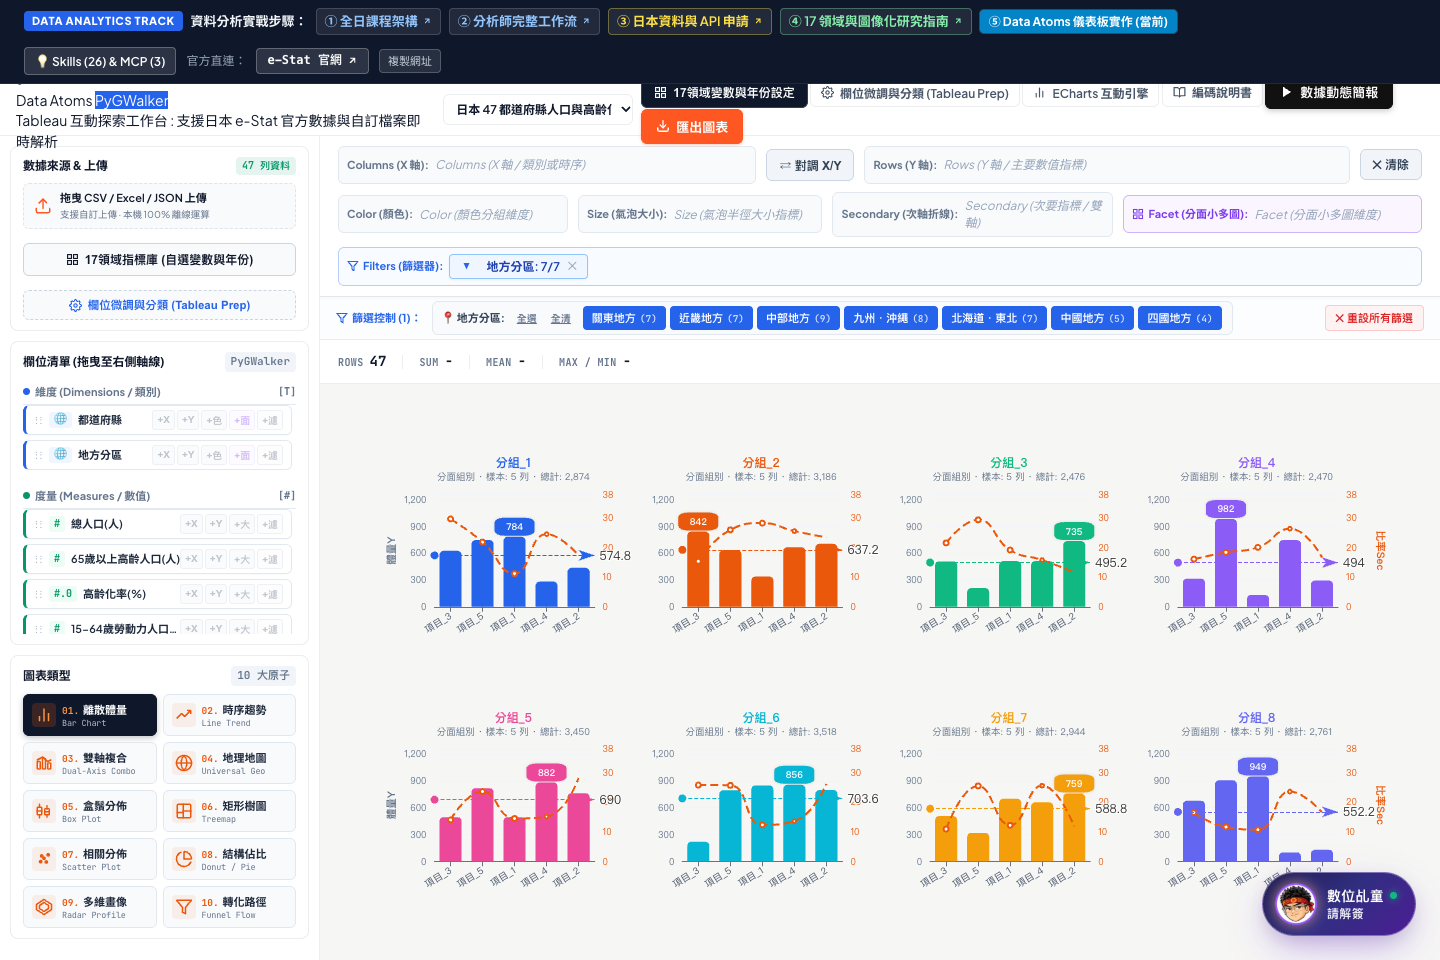
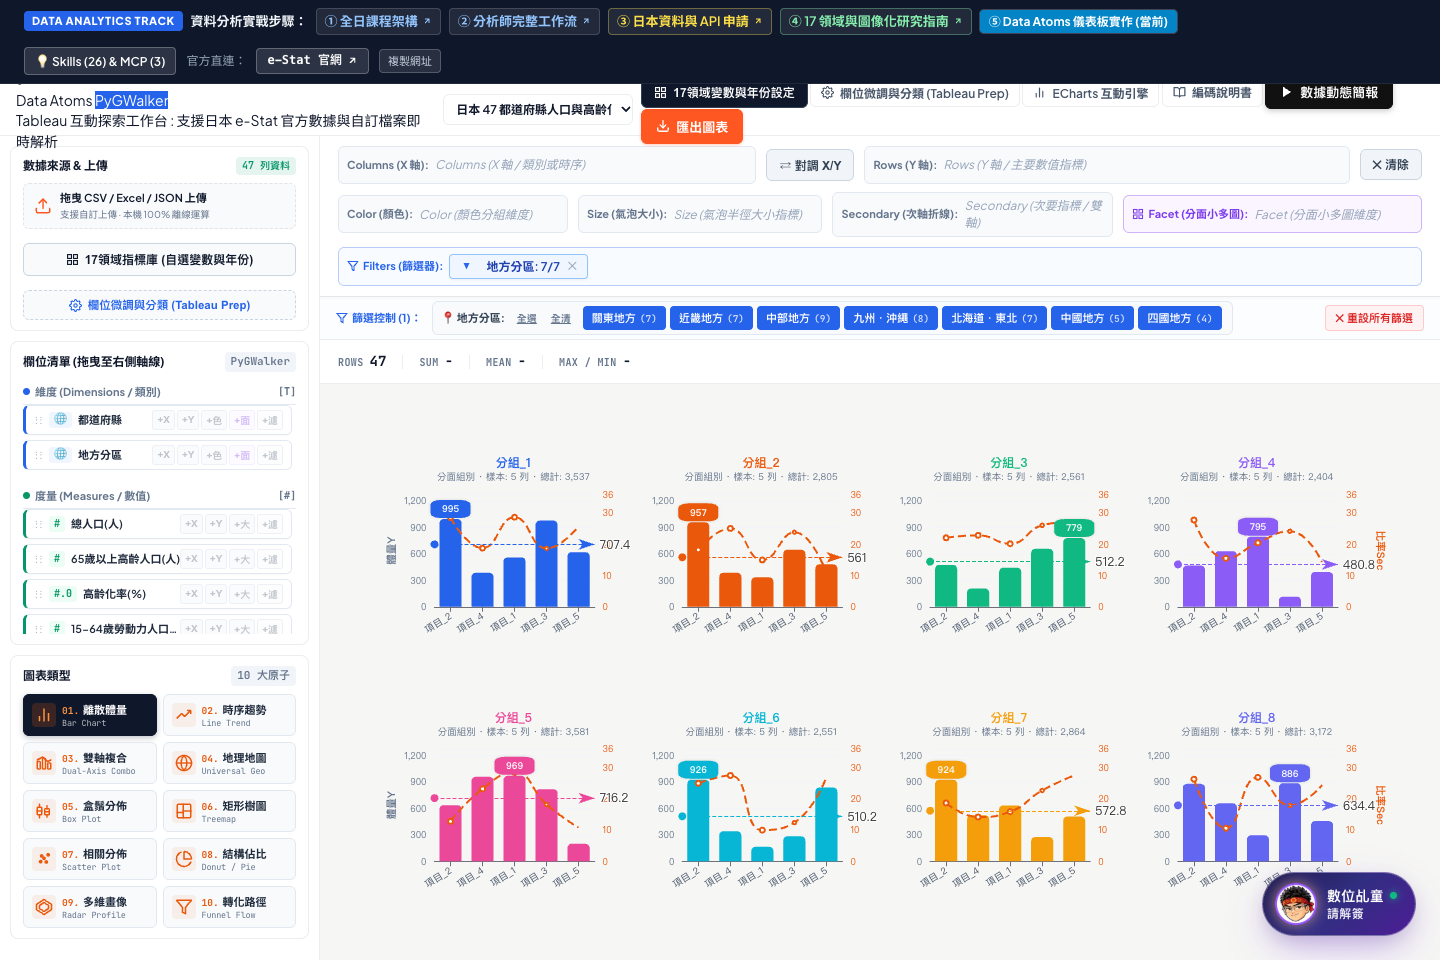
fix(treemap): eliminate legend overlap with breadcrumb navigation

diff --git a/.agents/skills/data-atoms-dashboard/templates/js/pygwalker_data_atoms.js b/.agents/skills/data-atoms-dashboard/templates/js/pygwalker_data_atoms.js
@@ -2711,6 +2711,7 @@
 
       delete option.xAxis;
       delete option.yAxis;
+      option.legend = { show: false };
 
       option.tooltip = {
         trigger: 'item',
@@ -2735,9 +2736,18 @@
           roam: false,
           left: '4%',
           right: '4%',
-          top: 30,
-          bottom: 30,
-          breadcrumb: { show: true, top: 4, height: 22 },
+          top: 36,
+          bottom: 24,
+          breadcrumb: {
+            show: true,
+            top: 4,
+            height: 22,
+            emptyItemWidth: 25,
+            itemStyle: {
+              color: 'rgba(15, 23, 42, 0.75)',
+              textStyle: { color: '#ffffff', fontSize: 11 }
+            }
+          },
           label: {
             show: true,
             formatter: '{b}\n{c}',
@@ -2971,6 +2981,7 @@
 
       delete option.xAxis;
       delete option.yAxis;
+      option.legend = { show: false };
 
       option.series = [
         {

diff --git a/.agents/skills/dataviz-analyst/templates/js/pygwalker_data_atoms.js b/.agents/skills/dataviz-analyst/templates/js/pygwalker_data_atoms.js
@@ -2711,6 +2711,7 @@
 
       delete option.xAxis;
       delete option.yAxis;
+      option.legend = { show: false };
 
       option.tooltip = {
         trigger: 'item',
@@ -2735,9 +2736,18 @@
           roam: false,
           left: '4%',
           right: '4%',
-          top: 30,
-          bottom: 30,
-          breadcrumb: { show: true, top: 4, height: 22 },
+          top: 36,
+          bottom: 24,
+          breadcrumb: {
+            show: true,
+            top: 4,
+            height: 22,
+            emptyItemWidth: 25,
+            itemStyle: {
+              color: 'rgba(15, 23, 42, 0.75)',
+              textStyle: { color: '#ffffff', fontSize: 11 }
+            }
+          },
           label: {
             show: true,
             formatter: '{b}\n{c}',
@@ -2971,6 +2981,7 @@
 
       delete option.xAxis;
       delete option.yAxis;
+      option.legend = { show: false };
 
       option.series = [
         {

diff --git a/js/pygwalker_data_atoms.js b/js/pygwalker_data_atoms.js
@@ -2711,6 +2711,7 @@
 
       delete option.xAxis;
       delete option.yAxis;
+      option.legend = { show: false };
 
       option.tooltip = {
         trigger: 'item',
@@ -2735,9 +2736,18 @@
           roam: false,
           left: '4%',
           right: '4%',
-          top: 30,
-          bottom: 30,
-          breadcrumb: { show: true, top: 4, height: 22 },
+          top: 36,
+          bottom: 24,
+          breadcrumb: {
+            show: true,
+            top: 4,
+            height: 22,
+            emptyItemWidth: 25,
+            itemStyle: {
+              color: 'rgba(15, 23, 42, 0.75)',
+              textStyle: { color: '#ffffff', fontSize: 11 }
+            }
+          },
           label: {
             show: true,
             formatter: '{b}\n{c}',
@@ -2971,6 +2981,7 @@
 
       delete option.xAxis;
       delete option.yAxis;
+      option.legend = { show: false };
 
       option.series = [
         {
